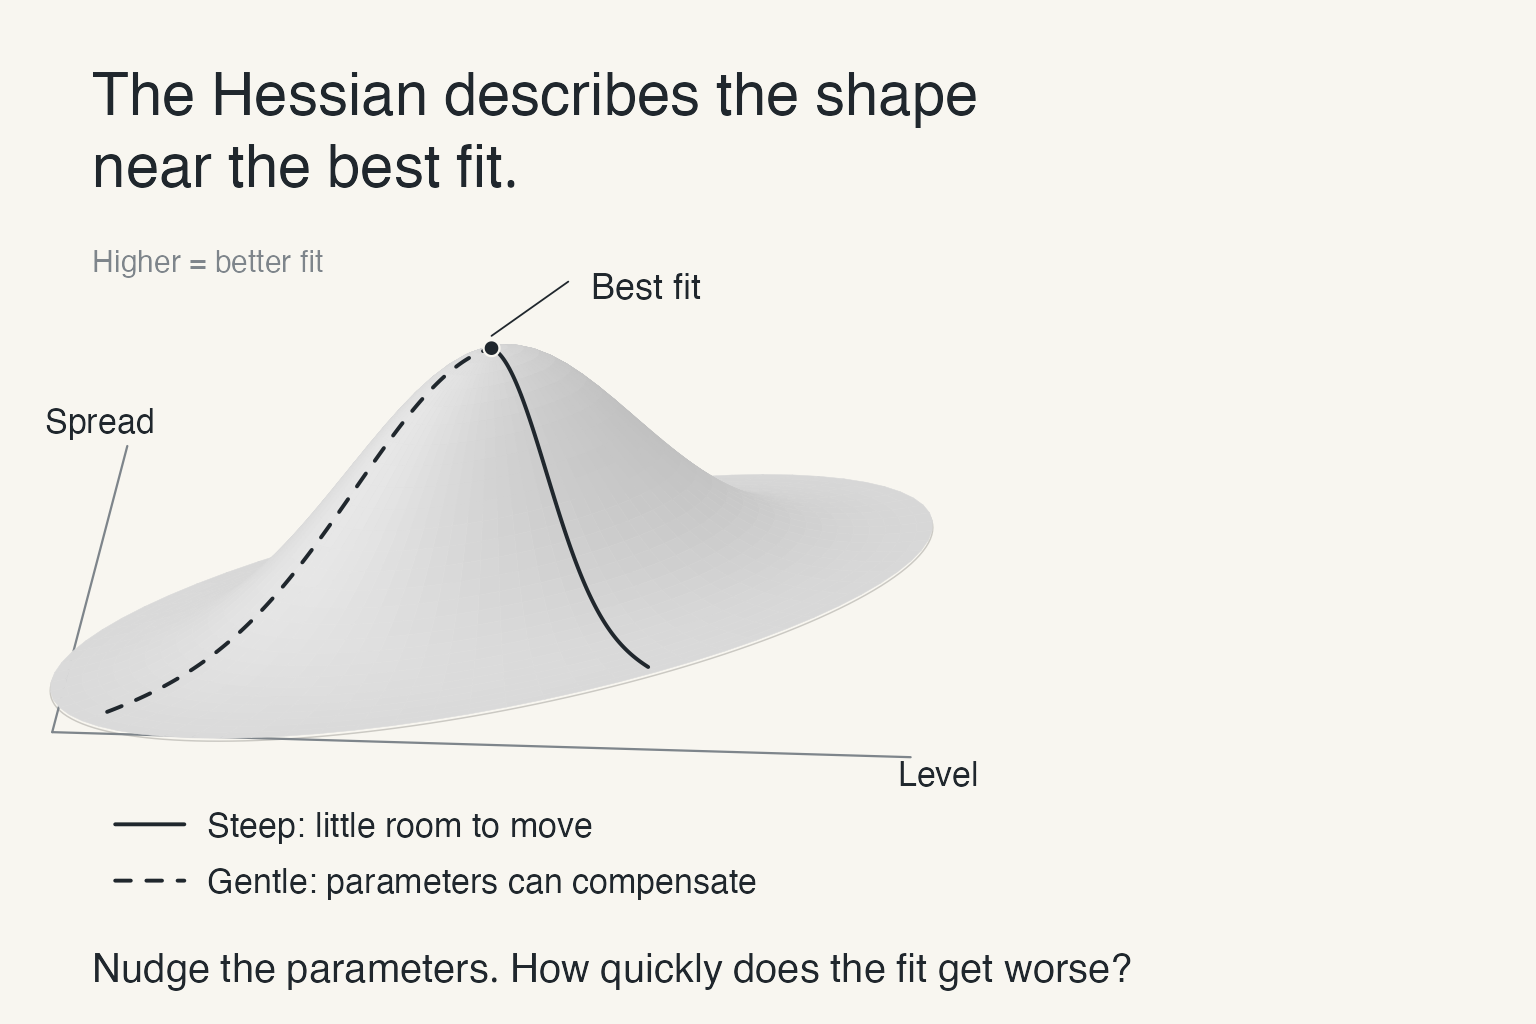
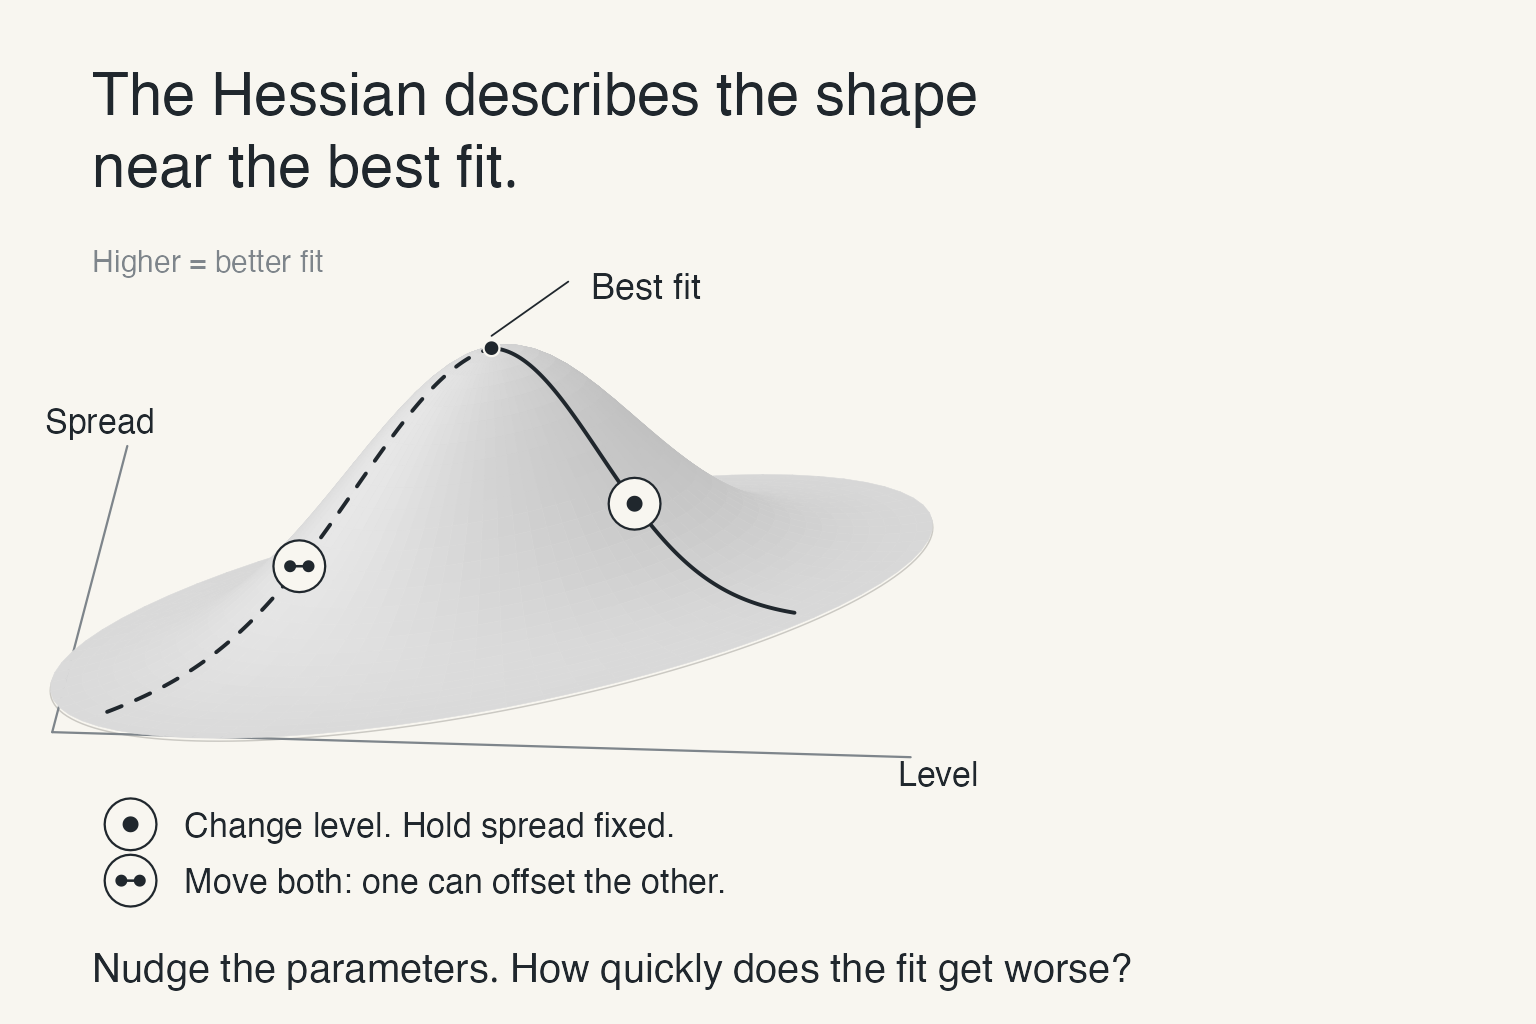
Link hill directions to conditional precision and parameter interaction

diff --git a/docs/index.html b/docs/index.html
@@ -256,12 +256,12 @@
 </section>
 <section id="hessian-hill" class="slide level2 art" data-background-image="design-studies/designs/hessian-hill.png" data-background-size="contain" data-background-color="#f8f6f0">
 <h2></h2>
-<p><img data-src="design-studies/designs/hessian-hill-matrix.png" class="hessian-overlay fragment" alt="A two-by-two Hessian labelled Level and Spread: diagonal entries describe curvature for each parameter; off-diagonal entries describe how they interact."></p>
+<p><img data-src="design-studies/designs/hessian-hill-matrix.png" class="hessian-overlay fragment" alt="A two-by-two Hessian labelled Level and Spread. Matching single-dot markers link the one-parameter path to the diagonal; linked-dot markers connect joint movement to the off-diagonal interaction terms."></p>
 <aside class="notes">
 <p><strong>The Hessian: the shape near the best fit — 35 seconds.</strong></p>
-<p>The top is our best fit. Nudge the parameters: in the steep direction, the fit gets worse quickly. Along the gentler direction, changing one parameter can partly compensate for changing the other. The Hessian records the local curvature of that hill.</p>
-<p>Click to reveal the two-by-two grid. The diagonal describes curvature for each parameter on its own; the other squares describe how the directions interact. Two parameters give us a two-by-two grid. Our nine estimates give us nine-by-nine. This local shape is what we use to build the normal approximation.</p>
-<p>Preparation detail, not spoken: the illustration is a toy relative likelihood over centred, rescaled Level and Spread coordinates, holding tail fixed. The relevant Hessian is that of the log-likelihood at its peak; its negative is the precision for the normal approximation. Because this relative likelihood equals one at the peak and has zero gradient there, its Hessian at the peak equals the log-likelihood Hessian. Cell colours identify diagonal versus off-diagonal positions, not numerical signs, magnitudes or correlations. The hill’s compensation direction is deliberately rotated relative to the parameter axes.</p>
+<p>The top is our best fit. Follow the solid path: change level while holding spread fixed. How quickly the fit falls away tells us how tightly level is pinned down with spread fixed. Now the dashed path: move both parameters. One can partly compensate for the other, so their estimates can move together.</p>
+<p>Click to reveal the grid and match the single-dot and linked-dot markers. The diagonal records curvature for each parameter with the other held fixed. The off-diagonal entries capture the interaction; together, the four squares describe how the estimates can move. Two parameters give us a two-by-two grid. Our nine estimates give us nine-by-nine. This local shape is what we use to build the normal approximation.</p>
+<p>Preparation detail, not spoken: the illustration is a toy relative likelihood over centred, rescaled Level and Spread coordinates, holding tail fixed. The relevant Hessian is that of the log-likelihood at its peak; its negative is the precision for the normal approximation. Because this relative likelihood equals one at the peak and has zero gradient there, its Hessian at the peak equals the log-likelihood Hessian. A diagonal entry of the precision matrix is conditional precision with other parameters fixed, not the inverse marginal variance. The covariance of the normal approximation is the inverse of the full precision matrix. The curvature along the dashed path combines diagonal and off-diagonal terms: the linked-dot marker illustrates coupling, not a curve determined by a single off-diagonal entry. Cell colours identify matrix positions, not numerical signs, magnitudes or correlations.</p>
 <style type="text/css">
         span.MJX_Assistive_MathML {
           position:absolute!important;

diff --git a/design-studies/README.md b/design-studies/README.md
@@ -15,7 +15,7 @@ Working drafts and assets developed with Codex, brought into the talk repository
 - `figures/`: first draft figures in PNG/SVG, plus copies of the existing poster and flood photograph.
 - `designs/`: fictional station reveals (`stations-1` to `stations-3`), all-nine-parameter diagram, simplified Hessian ladder, and contact sheet, in PNG/SVG.
 - `make-visuals.R`, `slide-designs.R`: figure-generation sources; run from this directory.
-- `hessian-hill.R`: the live deck's intuitive Hessian slide, added 24 September. Generates the hill and transparent matrix reveal in `designs/hessian-hill*.{png,svg}`. The hill is a toy relative likelihood with an analytically checked log-Hessian; the diagonal/off-diagonal colours indicate matrix positions, not values. This addition is in `../index.qmd`; the earlier click-through draft and ZIP snapshots remain as they were.
+- `hessian-hill.R`: the live deck's intuitive Hessian slide, added 24 September. Generates the hill and transparent matrix reveal in `designs/hessian-hill*.{png,svg}`. Matching single-dot and linked-dot markers connect the Level-only slice to the diagonal and joint movement to the interaction terms. The conditional-uncertainty qualifier is visible; overall uncertainty and joint-path curvature depend on the full Hessian. The hill is a toy relative likelihood with an analytically checked log-Hessian; the diagonal/off-diagonal colours indicate matrix positions, not values. This addition is in `../index.qmd`; the earlier click-through draft and ZIP snapshots remain as they were.
 - `scripts/build_design_board.py`: builds the self-contained design board and its ZIP archive using relative paths.
 - `scripts/package_draft.py`: current draft generator. Running it overwrites both QMD sources with its stored draft text; keep speaker-cue changes in this script when rebuilding both views together.
 - `science-slam-draft.zip`, `slide-design-assets.zip`: downloadable snapshots refreshed with this revision; rebuild the packages after later changes.

diff --git a/CLAUDE.md b/CLAUDE.md
@@ -120,3 +120,4 @@ The earlier 8-slide map (covariance → precision → 24×24 walk) is in git at 
 | 2026-09-23 | Adopted the Codex flow and visual system; ending spoken over the poster; payoff slide cut; make-visuals.R unified; stale docs/ figures removed | Author: "improve the aesthetic" using design-studies/ |
 | 2026-09-23 | Published: public repo `bgautijonsson/science-slam-2026`, Pages from main:/docs, live at bggj.is/science-slam-2026 (build of `9773042`) | Author asked Claude to publish (overriding the user-only publish-deck rule for this deck) |
 | 2026-09-24 | Added the intuitive Hessian hill before the matrix sequence, with a two-by-two grid on one click; shortened the preceding uncertainty cues | Author identified the missing definition and chose a hill; diagonal curvature and interaction now have a visual explanation |
+| 2026-09-24 | Linked the hill paths to diagonal and off-diagonal matrix cells with matching symbols; changed the solid path to a Level-only slice; made the conditional-uncertainty qualifier visible | Author wanted certainty and co-movement connected directly to the matrix; overall uncertainty and joint movement use the full Hessian |
